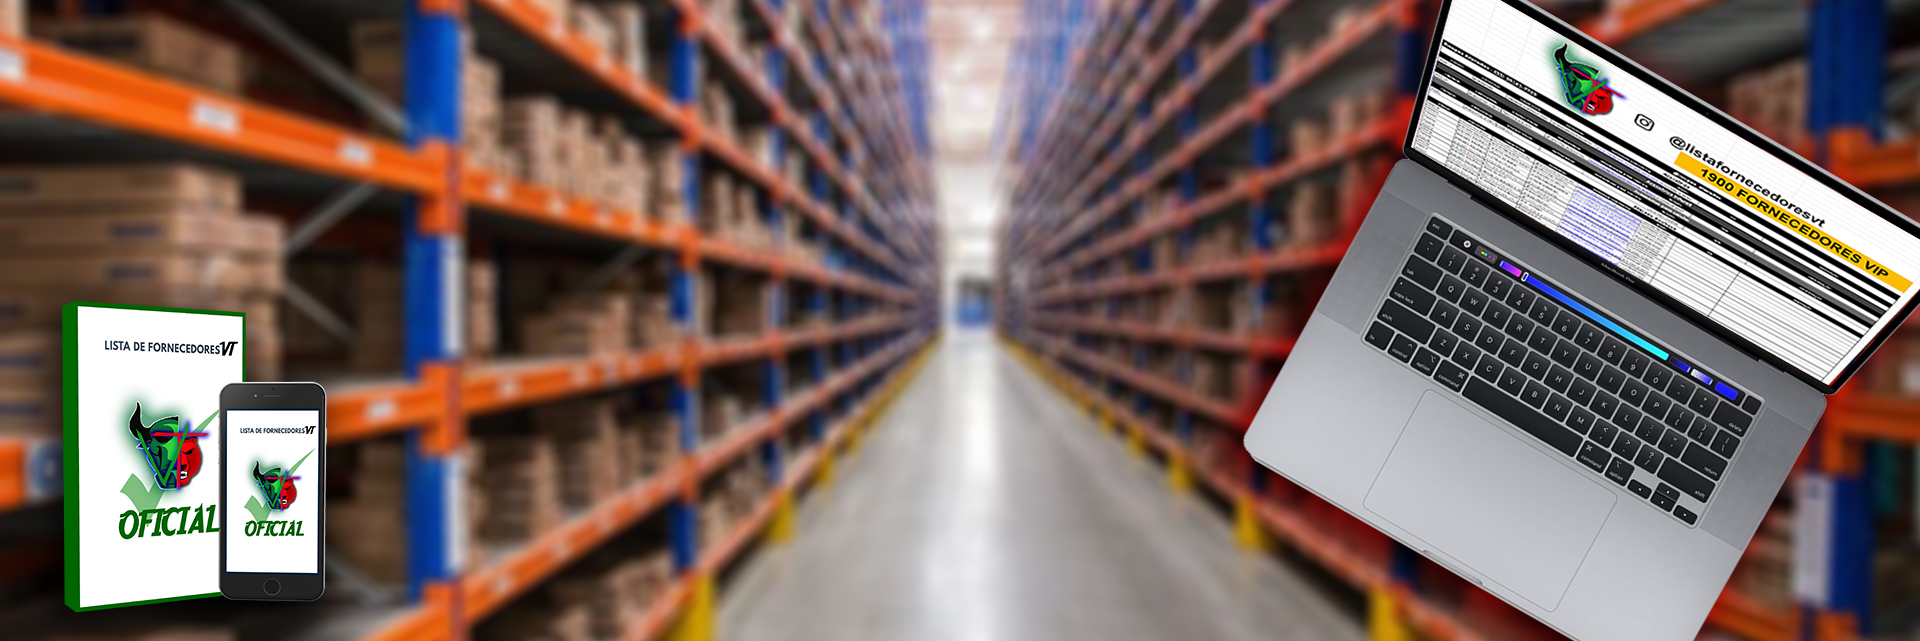
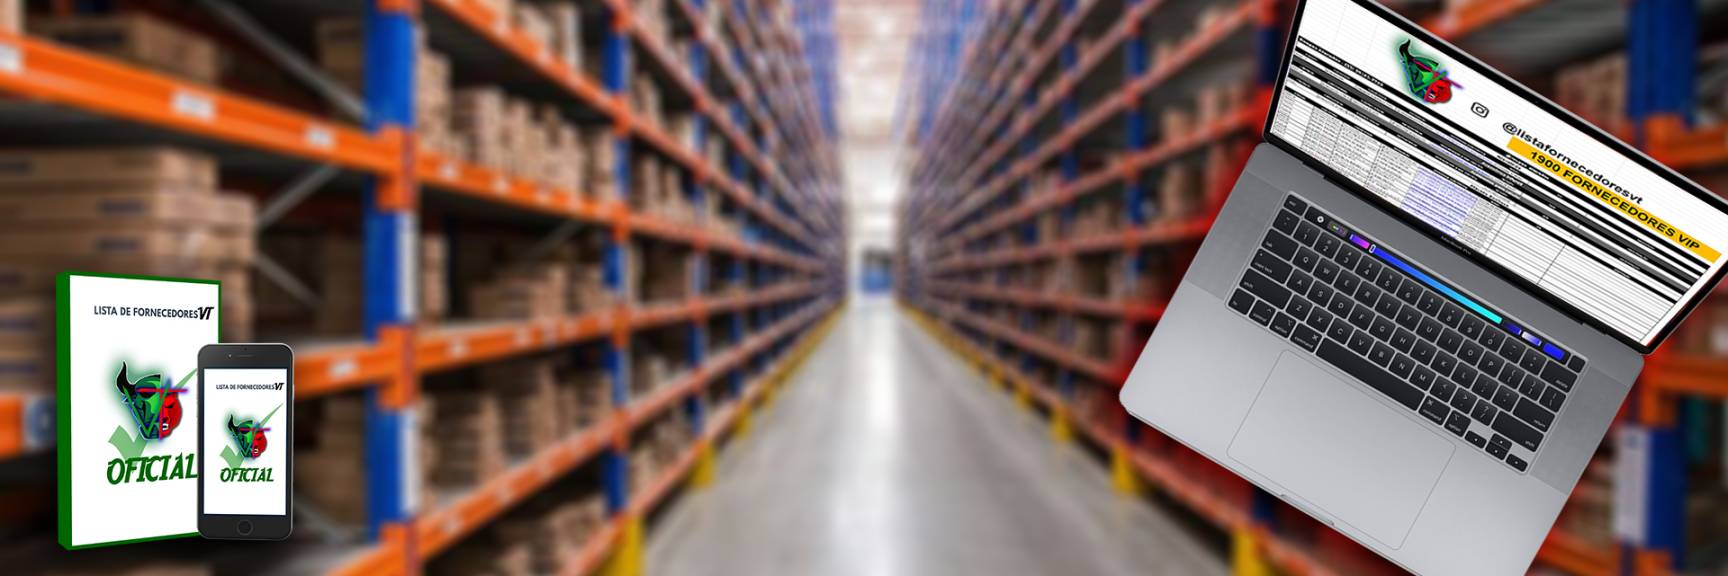
reduçao do tamanho das imagens para carregamento

diff --git a/index.html b/index.html
@@ -49,7 +49,7 @@
 
 <body>
     <!-- banner -->
-    <div class="jumbotron jumbotron-fluid" id="banner" style="background-image: url(img/banner-bk1.jpg); background-size: cover;">
+    <div class="jumbotron jumbotron-fluid" id="banner" style="background-image: url(img/banner-bk.jpg); background-size: cover;">
         <div class="container text-center text-md-left">
             <header>
                 <div class="row justify-content-between">
